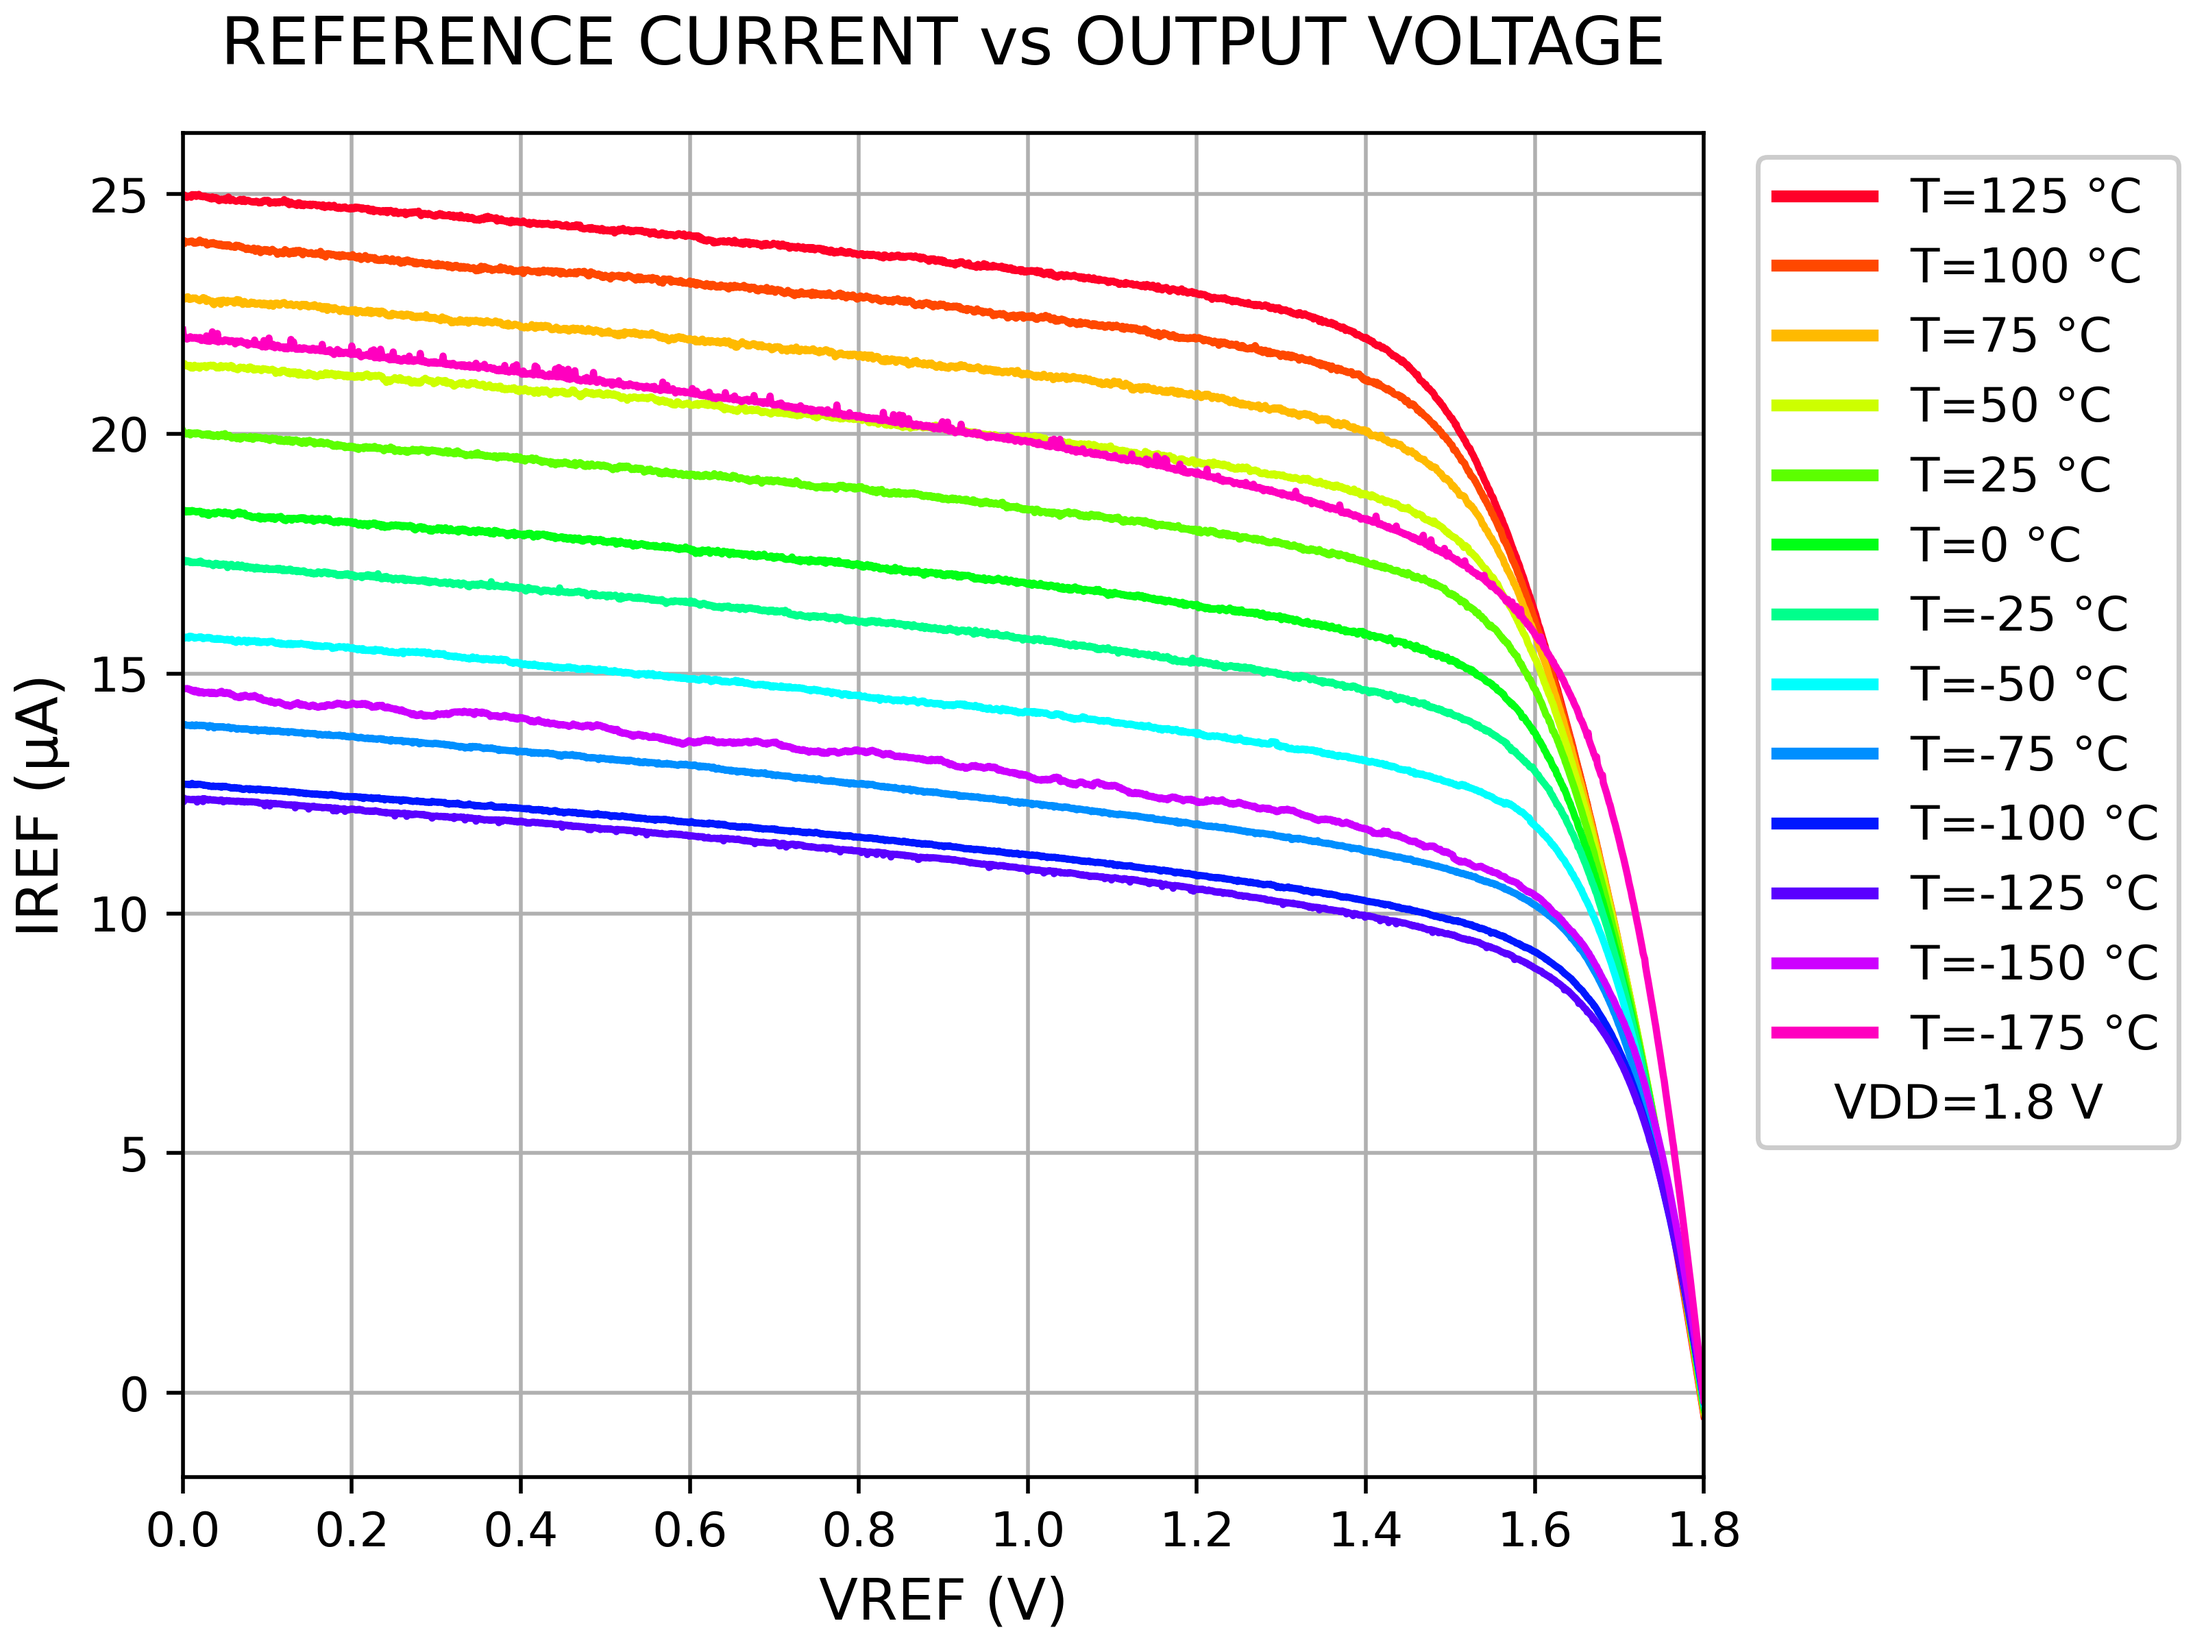
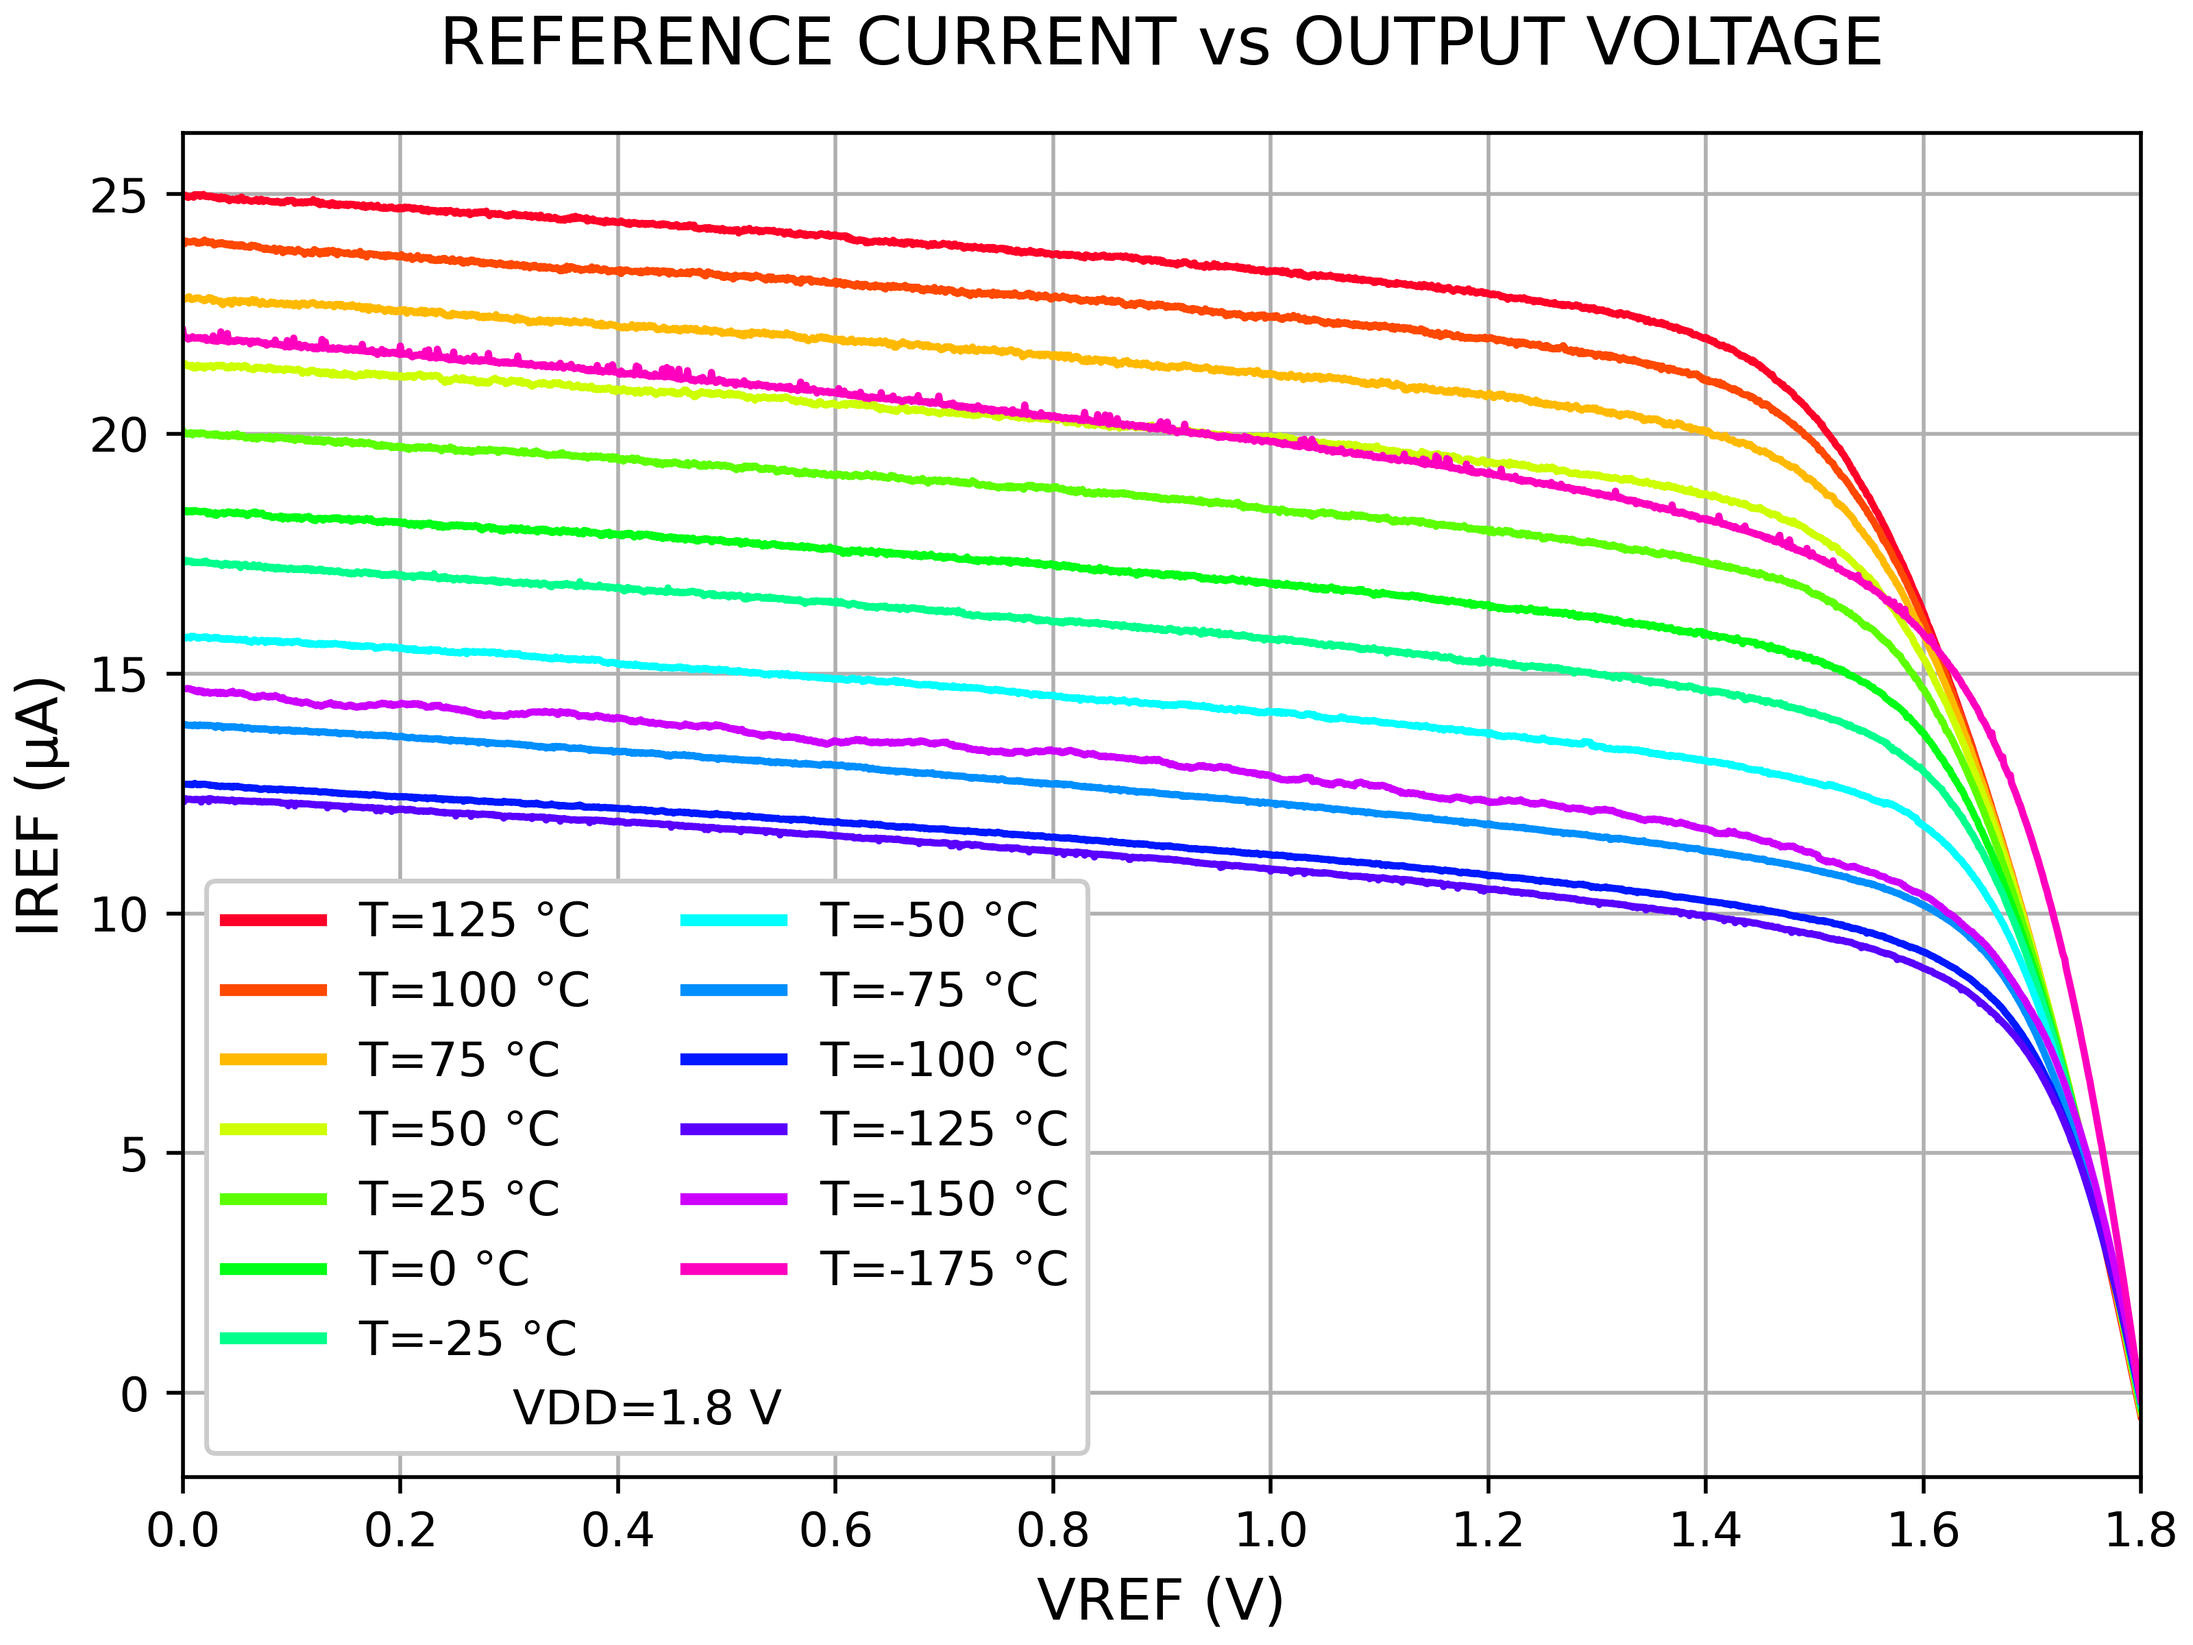
Updated legend_style to hopefully be more future proof. Added codes for multiple columns.

diff --git a/ICASL.py b/ICASL.py
@@ -191,7 +191,16 @@ def add_legend_text(legend, text):
 # Legend_style is searched for 1-2 character sequences to determine how to construct the legend. Need to add delimiter eventually.
 def finish_plot(fig, ax, save_dir="none", save_file="none", dpi=100, cm=plt.get_cmap('gist_rainbow'), 
                 legend=None, legend_style="#", annotations=None, close=True, show=False):
-    
+    default_style = "k:c"
+    if legend_style == "#":
+        legend_style = default_style
+
+    if isinstance(legend_style, str):
+        if (legend_style[0] != ":"):
+            legend_style = ":" + legend_style
+        if (legend_style[-1] != ":"):
+            legend_style = legend_style + ":"
+
     # Check if there's multiple axes (left and right side)
     multi_ax = False
     if isinstance(ax, collections.abc.Iterable):
@@ -218,25 +227,30 @@ def finish_plot(fig, ax, save_dir="none", save_file="none", dpi=100, cm=plt.get_
         raise ValueError("legend_style cannot be NoneType. Use 'n' to avoid all legend behavior.")
     
     # Legend styling. Adds a legend if you don't pass one to this function.
-    if ((legend != None or legend_style != "#" or len(lines) > 1 or annotations != None) and "n" not in legend_style):
+    if ((legend != None or legend_style != default_style or len(lines) > 1 or annotations != None) and ":n:" not in legend_style):
         if (legend == None):
             # Determine location
-            if "b2" in legend_style: bbox=(1.15, 1) # box on the right side
-            elif "b" in legend_style: bbox=(1.02, 1) # box on the right side, further right (for second axis)
+            if ":b2:" in legend_style: bbox=(1.15, 1) # box on the right side, further right (for second axis)
+            elif ":b:" in legend_style: bbox=(1.02, 1) # box on the right side
             else: bbox = None
 
-            if "ur" in legend_style: loc = "upper right"
-            elif "ul" in legend_style: loc = "upper left"
-            elif "lr" in legend_style: loc = "lower right"
-            elif "ll" in legend_style: loc = "lower left"
+            if ":ur:" in legend_style: loc = "upper right"
+            elif ":ul:" in legend_style: loc = "upper left"
+            elif ":lr:" in legend_style: loc = "lower right"
+            elif ":ll:" in legend_style: loc = "lower left"
             else: loc = None
 
-            if "s" in legend_style:
+            if ":s:" in legend_style:
                 facecolor='white'
                 framealpha=1
             else:
                 facecolor=None
                 framealpha=None
+
+            if ":nc2:" in legend_style: ncols = 2
+            elif ":nc3:" in legend_style: ncols = 3
+            elif ":nc4:" in legend_style: ncols = 4
+            else: ncols = 1
 
             # Set legend
             if multi_ax == False:
@@ -244,7 +258,7 @@ def finish_plot(fig, ax, save_dir="none", save_file="none", dpi=100, cm=plt.get_
                 if len(lines) == 1: # If there's only one line, I assume you don't actually want legend entries, and are going to glue annotations on later.
                     lines = []
                     labels = []
-                legend = ax.legend(lines, labels, loc=loc, bbox_to_anchor=bbox, facecolor=facecolor, framealpha=framealpha)
+                legend = ax.legend(lines, labels, loc=loc, bbox_to_anchor=bbox, facecolor=facecolor, framealpha=framealpha, ncols=ncols)
             else:
                 all_lines = []
                 all_labels = []
@@ -257,17 +271,15 @@ def finish_plot(fig, ax, save_dir="none", save_file="none", dpi=100, cm=plt.get_
                 if len(all_lines) == 1:
                     all_lines = []
                     all_labels = []
-                legend = axes[0].legend(all_lines, all_labels, loc=loc, bbox_to_anchor=bbox, facecolor=facecolor, framealpha=framealpha)
+                legend = axes[0].legend(all_lines, all_labels, loc=loc, bbox_to_anchor=bbox, facecolor=facecolor, framealpha=framealpha, ncols=ncols)
                 
         elif (not isinstance(legend, lg.Legend)):
             raise ValueError(f"legend is of invalid type {type(legend)}. It should be the object that ax.legend() returns.")
-        # Style legend
-        if (legend_style == "#"): # If you pass your legend but not a style, I default to this one
-            legend_style = "kc"
-        if ("k" in legend_style): # Thickens widths of the legend's example lines, NOT the actual lines on the plot
+        # Style legend lines
+        if (":k:" in legend_style): # Thickens widths of the legend's example lines, NOT the actual lines on the plot
             for legend_line in legend.get_lines(): 
                 legend_line.set_linewidth(2.5)
-        if ("c" in legend_style): # Colors legend lines the same as actual lines
+        if (":c:" in legend_style): # Colors legend lines the same as actual lines
             if cm != None:
                 for legend_line, color in zip(legend.get_lines(), colors):
                     legend_line.set_color(color)
